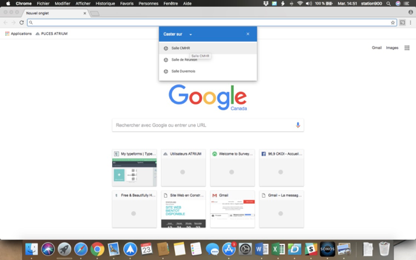
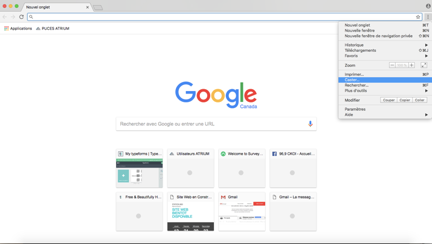
GitBook: [master] one page and 3 assets modified

diff --git a/cast/macbook.md b/cast/macbook.md
@@ -2,11 +2,15 @@
 
 1. Dans la barre d’outils de Google Chrome et choisir le menu ayant trois petits points verticaux, puis appuyer sur ‘’Caster’’.
 
-![Menu Google Chrome](../.gitbook/assets/image.png)
+![Menu Google Chrome](../.gitbook/assets/image%20%281%29.png)
 
 2. Dans le menu _Caster_ choisissez le nom de votre salle de conférence
 
-![](../.gitbook/assets/image%20%281%29.png)
+![S&#xE9;lectionner la salle dans laquelle vous voulez Caster](../.gitbook/assets/image%20%282%29.png)
 
+3. Vous pouvez appuyer sur le ‘’x’’ pour fermer le menu du casting et votre écran est maintenant affiché sur la télévision et est prêt à être utilisé. 
 
+4. Pour mettre fin à l’utilisation, répéter l’étape \#1 puis appuyer sur ‘’arrêter’’ en bas à droite du menu à votre écran. 
+
+![Mettre fin au Casting](../.gitbook/assets/image.png)
 
